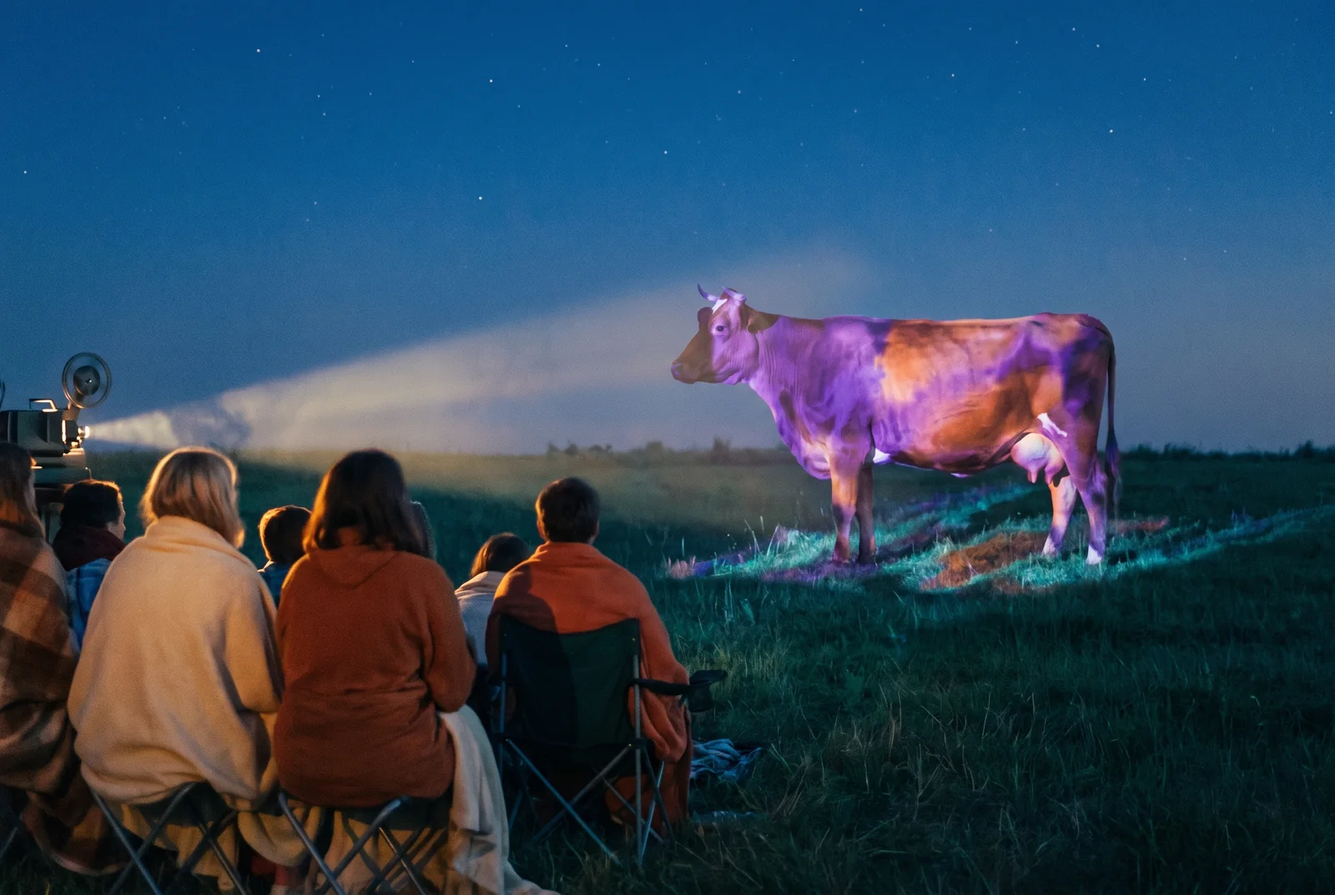
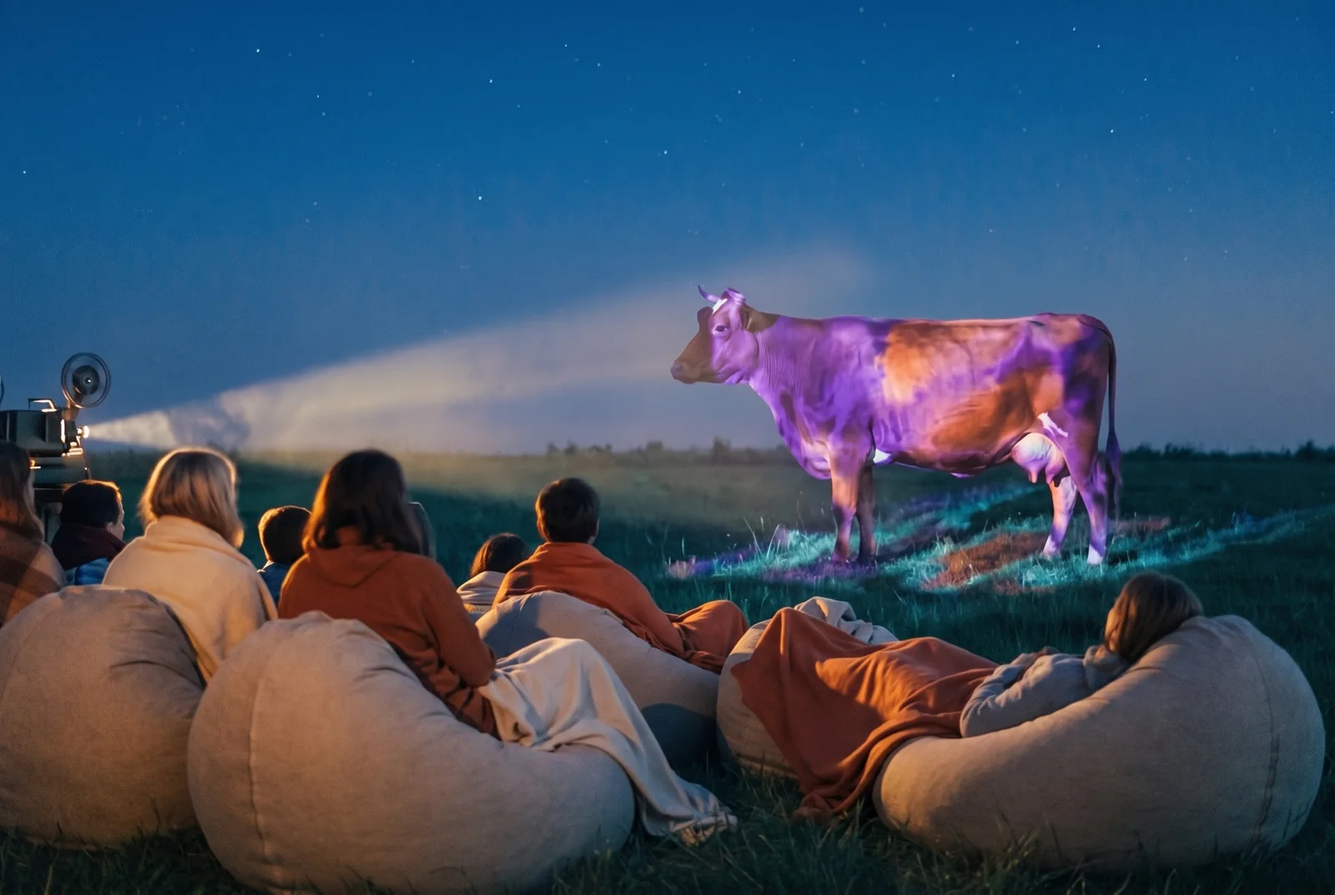
Журнал, фильмы про цвет: авторство обеих, осенняя рамка, цветная вёрстка, новые картинки
- подборка от Елены Семёновой и Яниты Войт, у Лениных фильмов подпись «выбор Елены»
- вводка переписана на осень: тридцать фильмов на сезон, начать можно на выходных
- у каждого фильма своя цветная полоска в цвете самого фильма, заголовки разделов в цвете
- обложка и вторая картинка заменены: зрители на пуфах, фиолетовая корова вместо экрана

Changed region(s): [[0.0, 0.5228, 1.0, 1.0], [0.0625, 0.5228, 0.125, 0.5843], [0.0312, 0.4306, 0.0625, 0.5228]]

diff --git a/journal/filmy-pro-cvet.html b/journal/filmy-pro-cvet.html
@@ -3,13 +3,13 @@
 <head>
   <meta charset="UTF-8">
   <meta name="viewport" content="width=device-width, initial-scale=1.0">
-  <title>Фильмы про цвет: 30 картин, где цвет — главный герой — Мы должны быть воображаемы</title>
-  <meta name="description" content="Что посмотреть про цвет: документальные сериалы BBC и Аттенборо, фильмы о художниках и тридцать картин, где цвет работает наравне с сюжетом. Список для выходных.">
+  <title>Фильмы про цвет: подборка на осень, 30 картин — Мы должны быть воображаемы</title>
+  <meta name="description" content="Что посмотреть про цвет осенью: документальные сериалы BBC и Аттенборо, кино о художниках и красках и тридцать фильмов, где цвет работает наравне с сюжетом. Подборка Елены Семёновой и Яниты Войт.">
   <meta name="keywords" content="фильмы про цвет, что посмотреть про цвет, документальные фильмы о цвете, цвет в кино, Кесьлёвский Три цвета, Уэс Андерсон палитра, Жизнь в цвете Аттенборо, арт-коучинг">
   <link rel="canonical" href="https://voobrazhaemy.ru/journal/filmy-pro-cvet.html">
   <meta property="og:type" content="article">
   <meta property="og:url" content="https://voobrazhaemy.ru/journal/filmy-pro-cvet.html">
-  <meta property="og:title" content="Фильмы про цвет: 30 картин, где цвет — главный герой">
+  <meta property="og:title" content="Фильмы про цвет: подборка на осень">
   <meta property="og:description" content="Документальное про устройство цвета, кино про художников и большой список фильмов, которые смотрят ради палитры. Плюс три приёма, как смотреть на цвет.">
   <meta property="og:image" content="https://voobrazhaemy.ru/assets/img/journal/kino/og.jpg">
   <meta property="og:locale" content="ru_RU">
@@ -24,23 +24,29 @@
     .article__figure { max-width: 900px; }
     /* список фильмов: название — своей строкой, пояснение — тише */
     .films { list-style: none; margin: 0 0 26px; padding: 0; }
-    .films li { margin: 0 0 18px; padding: 0 0 0 18px; border-left: 2px solid rgba(23,24,26,.12); }
+    .films li { margin: 0 0 18px; padding: 0 0 0 18px; border-left: 4px solid var(--c, #C1462E); }
+    .films li b { color: #23201b; }
     .films b { display: block; font-size: 18.5px; line-height: 1.35; font-weight: 600; }
     .films span { display: block; margin-top: 4px; font-size: 16.5px; line-height: 1.55; color: rgba(23,24,26,.68); }
     .films em { font-style: normal; color: rgba(23,24,26,.45); font-size: 15px; }
+    /* и заголовки разделов тоже в цвете — статья про цвет */
+    .article__body h2.h-blue { color: #2E86AB; }
+    .article__body h2.h-red  { color: #C8102E; }
+    .article__body h2.h-gold { color: #B8860B; }
+    .article__body h2.h-teal { color: #2A6E5E; }
   </style>
   <script type="application/ld+json">
   {
     "@context": "https://schema.org",
     "@type": "Article",
-    "headline": "Фильмы про цвет: 30 картин, где цвет — главный герой",
+    "headline": "Кино, в котором цвет — главный герой: подборка фильмов про цвет на осень",
     "description": "Что посмотреть про цвет: документальные сериалы BBC и Дэвида Аттенборо, фильмы о художниках и большой список игрового кино, которое смотрят ради палитры. Плюс три приёма, как смотреть фильм на цвет.",
     "image": "https://voobrazhaemy.ru/assets/img/journal/kino/og.jpg",
     "datePublished": "2026-09-04",
     "dateModified": "2026-09-04",
     "inLanguage": "ru-RU",
     "keywords": "фильмы про цвет, что посмотреть про цвет, документальные фильмы о цвете, цвет в кино, палитра, арт-коучинг",
-    "author": { "@type": "Person", "name": "Янита Войт", "jobTitle": "Художник" },
+    "author": [ { "@type": "Person", "name": "Елена Семёнова", "jobTitle": "Executive-коуч" }, { "@type": "Person", "name": "Янита Войт", "jobTitle": "Художник" } ],
     "publisher": { "@type": "Organization", "name": "Мы должны быть воображаемы", "url": "https://voobrazhaemy.ru/", "logo": { "@type": "ImageObject", "url": "https://voobrazhaemy.ru/apple-touch-icon.png" } },
     "mainEntityOfPage": "https://voobrazhaemy.ru/journal/filmy-pro-cvet.html"
   }
@@ -86,70 +92,72 @@
     <div class="article__wrap">
       <div class="article__tag">#смотрим</div>
       <h1 class="article__title">Кино, в котором цвет — главный герой</h1>
-      <p class="article__dek" style="font-family:var(--serif);font-style:italic;font-size:20px;line-height:1.5;color:rgba(23,24,26,.62);margin:16px 0 0">Тридцать картин на выходные: от науки о цвете до Уэса Андерсона</p>
-      <div class="article__meta" style="margin-top:16px">Янита Войт, художник</div>
+      <p class="article__dek" style="font-family:var(--serif);font-style:italic;font-size:20px;line-height:1.5;color:rgba(23,24,26,.62);margin:16px 0 0">Подборка на осень: тридцать картин от науки о цвете до Уэса Андерсона</p>
+      <div class="article__meta" style="margin-top:16px">Елена Семёнова, коуч, и Янита Войт, художник</div>
     </div>
   </div>
 
   <figure class="article__figure">
-    <img src="../assets/img/journal/kino/hero.webp" width="1600" height="1073" alt="Летний вечер в поле: зрители сидят спиной к нам в пледах, луч проектора идёт над их головами, а фильм показывают не на белый экран, а на корову, которая от этого стала фиолетовой">
+    <img src="../assets/img/journal/kino/hero.webp" width="1600" height="1073" alt="Вечер в поле: зрители полулежат на больших мягких пуфах, укрытые пледами, а фильм показывают не на белый экран, а на корову, которая от этого стала фиолетовой">
     <figcaption>Экран решает не меньше плёнки: попробуйте показать кино не на белую стену.</figcaption>
   </figure>
 
   <div class="article__wrap">
     <div class="article__body">
+      <p>Началась осень — время, когда снова хочется уюта: плед, тёплый свет и хороший фильм. Мы собрали такую подборку вдвоём, каждая тянула в свою сторону: Елена — в сторону науки и того, как цвет устроен, Янита — в сторону палитры и того, как он сделан.</p>
+
       <p>Цвет в кино срабатывает раньше сюжета. Вы ещё не поняли, кто кому кем приходится, а уже знаете, тревожно тут или тепло, — и решил это художник-постановщик, а не сценарист.</p>
 
-      <p>Мы собрали список к сессии «Цвет личности. Личность цвета» — той, где участники смешивают собственную палитру руками и пишут пальцами, без кистей и без эскиза. Это тот же навык, что и в кино: научиться замечать, чем именно цвет говорит.</p>
+      <p>Тридцать фильмов на всю осень, а начать можно уже на этих выходных. Список разделён на три части: сначала документальное про устройство цвета, потом кино про художников и краски, потом игровое, ради которого и стоит освободить вечер.</p>
 
-      <p>Список вышел большой, поэтому он разделён на три части: сначала документальное про устройство цвета, потом кино про художников и краски, потом игровое, ради которого и стоит освободить вечер.</p>
+      <p>Заодно это подготовка к сессии «Цвет личности. Личность цвета» — той, где участники смешивают собственную палитру руками и пишут пальцами, без кистей и без эскиза. Навык там нужен тот же, что и в кино: замечать, чем именно говорит цвет.</p>
 
-      <h2>Как цвет вообще устроен</h2>
+      <h2 class="h-blue">Как цвет вообще устроен</h2>
 
       <ul class="films">
-        <li><b>«Цвет: спектр науки» / Colour: The Spectrum of Science</b><span>BBC Four, 2015. Три серии, ведёт физик Хелен Черски. Почему земля, жизнь и небо окрашены именно так, и что происходит за границами видимого спектра. Самое внятное объяснение природы цвета из тех, что мы видели. <em>Совет Елены</em></span></li>
-        <li><b>«Жизнь в цвете» с Дэвидом Аттенборо / Life in Colour</b><span>2021. Как животные видят цвет и что они им говорят друг другу: приманить, спрятаться, предупредить. Снято камерами, которые показывают то, чего человеческий глаз не различает. <em>Совет Елены</em></span></li>
-        <li><b>«Как рассказать историю с помощью цвета», Smirnov School</b><span>Лекция для художников — про то, как палитрой ведут зрителя по сюжету. Разбор на примерах, полезно смотреть с блокнотом. <em>Совет Елены</em></span></li>
+        <li style="--c:#2E86AB"><b>«Цвет: спектр науки» / Colour: The Spectrum of Science</b><span>BBC Four, 2015. Три серии, ведёт физик Хелен Черски. Почему земля, жизнь и небо окрашены именно так, и что происходит за границами видимого спектра. Самое внятное объяснение природы цвета из тех, что мы видели. <em>выбор Елены</em></span></li>
+        <li style="--c:#2F8F5B"><b>«Жизнь в цвете» с Дэвидом Аттенборо / Life in Colour</b><span>2021. Как животные видят цвет и что они им говорят друг другу: приманить, спрятаться, предупредить. Снято камерами, которые показывают то, чего человеческий глаз не различает. <em>выбор Елены</em></span></li>
+        <li style="--c:#C1462E"><b>«Как рассказать историю с помощью цвета», Smirnov School</b><span>Лекция для художников — про то, как палитрой ведут зрителя по сюжету. Разбор на примерах, полезно смотреть с блокнотом. <em>выбор Елены</em></span></li>
       </ul>
 
-      <h2>Художники, краски и одна подошва</h2>
+      <h2 class="h-red">Художники, краски и одна подошва</h2>
 
       <ul class="films">
-        <li><b>«Матисс», цикл Exhibition on Screen</b><span>2014. Про поздние вырезки: как он работал ножницами прямо по закрашенной гуашью бумаге, сидя в кресле, когда уже не мог стоять у мольберта.</span></li>
-        <li><b>«По следам Кристиана Лабутена» / Sur les pas de Christian Louboutin</b><span>Оливье Гаруст, 2020. Там есть та самая сцена: он берёт у ассистентки лак для ногтей и закрашивает подошву. С этого началась красная подошва, за которую потом судились в трёх странах.</span></li>
-        <li><b>«Барби»</b><span>Грета Гервиг, 2023. Для съёмок скупили почти весь мировой запас флуоресцентной розовой краски Rosco — другим студиям её просто не хватило. Отличный пример того, как цвет становится собственностью бренда.</span></li>
-        <li><b>«Красное» Джона Логана</b><span>Пьеса, идёт в театрах, есть записи спектаклей. Два часа про Ротко и те самые панно для ресторана, которые он в итоге не отдал.</span></li>
+        <li style="--c:#1B4FA0"><b>«Матисс», цикл Exhibition on Screen</b><span>2014. Про поздние вырезки: как он работал ножницами прямо по закрашенной гуашью бумаге, сидя в кресле, когда уже не мог стоять у мольберта.</span></li>
+        <li style="--c:#C8102E"><b>«По следам Кристиана Лабутена» / Sur les pas de Christian Louboutin</b><span>Оливье Гаруст, 2020. Там есть та самая сцена: он берёт у ассистентки лак для ногтей и закрашивает подошву. С этого началась красная подошва, за которую потом судились в трёх странах.</span></li>
+        <li style="--c:#E5399B"><b>«Барби»</b><span>Грета Гервиг, 2023. Для съёмок скупили почти весь мировой запас флуоресцентной розовой краски Rosco — другим студиям её просто не хватило. Отличный пример того, как цвет становится собственностью бренда.</span></li>
+        <li style="--c:#7B1E1E"><b>«Красное» Джона Логана</b><span>Пьеса, идёт в театрах, есть записи спектаклей. Два часа про Ротко и те самые панно для ресторана, которые он в итоге не отдал.</span></li>
       </ul>
 
       <figure class="article__figure" style="padding:0">
-        <img src="../assets/img/journal/kino/polyana.webp" width="1600" height="1073" alt="Открытый кинотеатр в поле в сумерках: ряды зрителей в пледах, луч проектора и корова вместо экрана">
-        <figcaption>Белый экран — это соглашение, а не закон физики.</figcaption>
+        <img src="../assets/img/journal/kino/polyana.webp" width="1600" height="1073" alt="Кино под открытым небом: зрители на пуфах с пледами и термосом, луч проектора и фиолетовая корова вместо экрана">
+        <figcaption>Термос, плед и фиолетовая корова: осенний комплект для просмотра.</figcaption>
       </figure>
 
-      <h2>Кино, где цвет — главный герой</h2>
+      <h2 class="h-gold">Кино, где цвет — главный герой</h2>
 
       <ul class="films">
-        <li><b>«Три цвета: синий», «Белый», «Красный»</b><span>Кшиштоф Кесьлёвский, 1993–1994. Три фильма, каждый залит своим цветом французского флага. Синий — про свободу и про то, как её переживают в одиночестве.</span></li>
-        <li><b>«Любовное настроение»</b><span>Вонг Кар-Вай, 2000. Красные шторы, зелёные стены коридора и двадцать с лишним платьев ципао, которые меняются вместо реплик.</span></li>
-        <li><b>«Амели»</b><span>Жан-Пьер Жёне, 2001. Париж, из которого убрали половину спектра: остались зелёный, красный и золотой.</span></li>
-        <li><b>«Куклы»</b><span>Такеши Китано, 2002. Четыре времени года и костюмы Ёдзи Ямамото — самый красивый фильм про цвет одежды.</span></li>
-        <li><b>«Герой»</b><span>Чжан Имоу, 2002. Одна и та же история рассказана несколько раз, и каждая версия сделана в своём цвете. Прямая демонстрация того, что цвет — это точка зрения.</span></li>
-        <li><b>«Весна, лето, осень, зима… и снова весна»</b><span>Ким Ки Дук, 2003. Год на плавучем храме: цвет меняется вместе с водой и лесом, больше ничего и не нужно.</span></li>
-        <li><b>«Поезд на Дарджилинг», «Бесподобный мистер Фокс», «Королевство полной луны», «Отель „Гранд Будапешт“»</b><span>Уэс Андерсон, 2007–2014. Четыре фильма подряд можно смотреть как учебник: у каждого своя жёстко собранная палитра, от осенней охры до розового кондитерского.</span></li>
-        <li><b>«Аватар»</b><span>Джеймс Кэмерон, 2009. Целая планета, придуманная через свечение: биолюминесцентный лес ночью работает как отдельный персонаж.</span></li>
-        <li><b>«Она»</b><span>Спайк Джонз, 2013. Художники почти убрали из кадра синий — и получился тёплый, коралловый, чуть душный мир будущего.</span></li>
-        <li><b>«Головоломка»</b><span>Пит Доктер, 2015. Эмоции сделаны цветами, и это ровно то, что мы делаем на сессии, только у нас наоборот: сначала состояние, потом краска.</span></li>
-        <li><b>«Ла-Ла Ленд»</b><span>Дэмьен Шазелл, 2016. Платья чистых основных цветов на фоне лиловых сумерек — цвет тут держит всю музыкальную драматургию.</span></li>
-        <li><b>«Основатель»</b><span>Джон Ли Хэнкок, 2016. История про то, как красное с жёлтым стали стоить миллиарды.</span></li>
-        <li><b>«Тайна Коко»</b><span>Ли Анкрич, 2017. Мир мёртвых, собранный из неона и оранжевых бархатцев. Смотреть на большом экране и в темноте.</span></li>
-        <li><b>«Книга образа»</b><span>Жан-Люк Годар, 2018. Здесь цвет откручен до предела и намеренно испорчен — видно, что происходит с изображением, когда его перекрашивают.</span></li>
-        <li><b>«Зелёная книга»</b><span>Питер Фаррелли, 2018. Америка шестидесятых, собранная по цвету автомобилей, вывесок и костюмов.</span></li>
-        <li><b>«Легенда о Зелёном рыцаре»</b><span>Дэвид Лоури, 2021. Фильм, названный по цвету, и цвет тут — сюжет, а не оформление.</span></li>
-        <li><b>«Дюна»</b><span>Дени Вильнёв, 2021. Почти монохром: охра, песок, сталь. Урок того, как обходиться двумя цветами и не заскучать.</span></li>
-        <li><b>«Удивительная миссис Мейзел»</b><span>Эми Шерман-Палладино, 2017–2023. Сериал, ради которого стоит смотреть только на костюмы: палитра героини меняется вместе с её жизнью.</span></li>
+        <li style="--c:#2453B8"><b>«Три цвета: синий», «Белый», «Красный»</b><span>Кшиштоф Кесьлёвский, 1993–1994. Три фильма, каждый залит своим цветом французского флага. Синий — про свободу и про то, как её переживают в одиночестве.</span></li>
+        <li style="--c:#B02A37"><b>«Любовное настроение»</b><span>Вонг Кар-Вай, 2000. Красные шторы, зелёные стены коридора и двадцать с лишним платьев ципао, которые меняются вместо реплик.</span></li>
+        <li style="--c:#2E7D32"><b>«Амели»</b><span>Жан-Пьер Жёне, 2001. Париж, из которого убрали половину спектра: остались зелёный, красный и золотой.</span></li>
+        <li style="--c:#D94F8A"><b>«Куклы»</b><span>Такеши Китано, 2002. Четыре времени года и костюмы Ёдзи Ямамото — самый красивый фильм про цвет одежды.</span></li>
+        <li style="--c:#E0A800"><b>«Герой»</b><span>Чжан Имоу, 2002. Одна и та же история рассказана несколько раз, и каждая версия сделана в своём цвете. Прямая демонстрация того, что цвет — это точка зрения.</span></li>
+        <li style="--c:#6E8C3A"><b>«Весна, лето, осень, зима… и снова весна»</b><span>Ким Ки Дук, 2003. Год на плавучем храме: цвет меняется вместе с водой и лесом, больше ничего и не нужно.</span></li>
+        <li style="--c:#E8A0A8"><b>«Поезд на Дарджилинг», «Бесподобный мистер Фокс», «Королевство полной луны», «Отель „Гранд Будапешт“»</b><span>Уэс Андерсон, 2007–2014. Четыре фильма подряд можно смотреть как учебник: у каждого своя жёстко собранная палитра, от осенней охры до розового кондитерского.</span></li>
+        <li style="--c:#1FA3B8"><b>«Аватар»</b><span>Джеймс Кэмерон, 2009. Целая планета, придуманная через свечение: биолюминесцентный лес ночью работает как отдельный персонаж.</span></li>
+        <li style="--c:#E4573D"><b>«Она»</b><span>Спайк Джонз, 2013. Художники почти убрали из кадра синий — и получился тёплый, коралловый, чуть душный мир будущего.</span></li>
+        <li style="--c:#F2C300"><b>«Головоломка»</b><span>Пит Доктер, 2015. Эмоции сделаны цветами, и это ровно то, что мы делаем на сессии, только у нас наоборот: сначала состояние, потом краска.</span></li>
+        <li style="--c:#4A3F9F"><b>«Ла-Ла Ленд»</b><span>Дэмьен Шазелл, 2016. Платья чистых основных цветов на фоне лиловых сумерек — цвет тут держит всю музыкальную драматургию.</span></li>
+        <li style="--c:#D62300"><b>«Основатель»</b><span>Джон Ли Хэнкок, 2016. История про то, как красное с жёлтым стали стоить миллиарды.</span></li>
+        <li style="--c:#FF7A00"><b>«Тайна Коко»</b><span>Ли Анкрич, 2017. Мир мёртвых, собранный из неона и оранжевых бархатцев. Смотреть на большом экране и в темноте.</span></li>
+        <li style="--c:#8E44AD"><b>«Книга образа»</b><span>Жан-Люк Годар, 2018. Здесь цвет откручен до предела и намеренно испорчен — видно, что происходит с изображением, когда его перекрашивают.</span></li>
+        <li style="--c:#2E7D6B"><b>«Зелёная книга»</b><span>Питер Фаррелли, 2018. Америка шестидесятых, собранная по цвету автомобилей, вывесок и костюмов.</span></li>
+        <li style="--c:#4F7A28"><b>«Легенда о Зелёном рыцаре»</b><span>Дэвид Лоури, 2021. Фильм, названный по цвету, и цвет тут — сюжет, а не оформление.</span></li>
+        <li style="--c:#C98A3C"><b>«Дюна»</b><span>Дени Вильнёв, 2021. Почти монохром: охра, песок, сталь. Урок того, как обходиться двумя цветами и не заскучать.</span></li>
+        <li style="--c:#C2185B"><b>«Удивительная миссис Мейзел»</b><span>Эми Шерман-Палладино, 2017–2023. Сериал, ради которого стоит смотреть только на костюмы: палитра героини меняется вместе с её жизнью.</span></li>
       </ul>
 
-      <h2>Три приёма, чтобы это было про цвет</h2>
+      <h2 class="h-teal">Три приёма, чтобы это было про цвет</h2>
 
       <p><b>Отключить звук на пять минут.</b> Без реплик сразу видно, чем сцена держится: где светлее, где теплее, куда вас ведут глазами.</p>
 

diff --git a/journal.html b/journal.html
@@ -70,7 +70,7 @@
     <div class="jfeed__grid">
 
       <a class="jcard reveal" href="journal/filmy-pro-cvet.html">
-        <div class="jcard__media"><img src="assets/img/journal/kino/card.webp" width="800" height="500" loading="lazy" alt="Кино под открытым небом: зрители в пледах сидят спиной к нам, а фильм показывают не на экран, а на корову, ставшую от этого фиолетовой"></div>
+        <div class="jcard__media"><img src="assets/img/journal/kino/card.webp" width="800" height="500" loading="lazy" alt="Кино под открытым небом: зрители полулежат на пуфах под пледами, а фильм показывают не на экран, а на корову, ставшую от этого фиолетовой"></div>
         <div class="jcard__body">
           <div class="jcard__tag">Смотрим · цвет в кино</div>
           <h2 class="jcard__title">Кино, в котором цвет — главный герой: 30 фильмов про цвет</h2>
